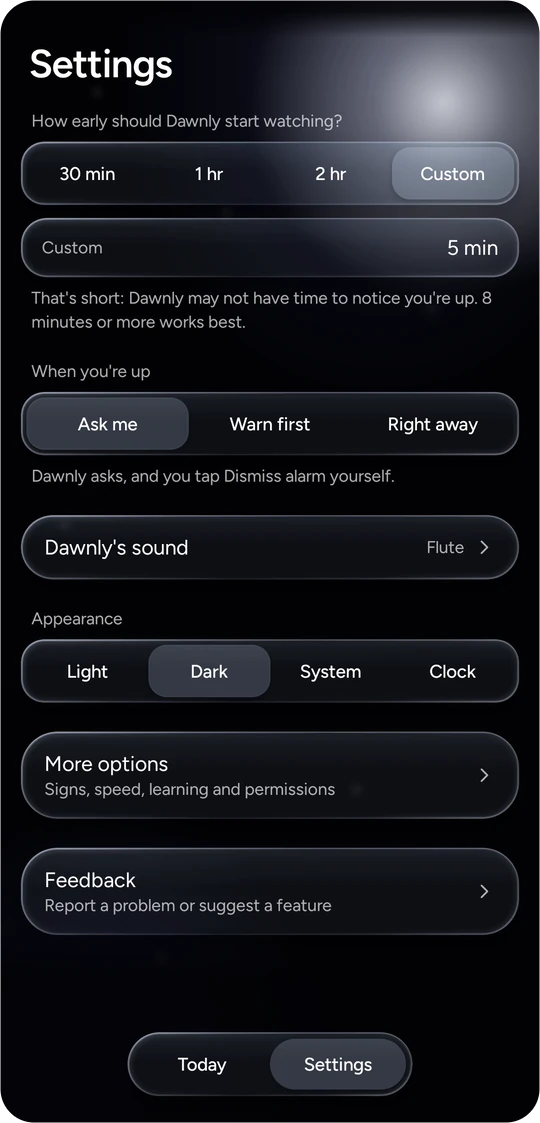
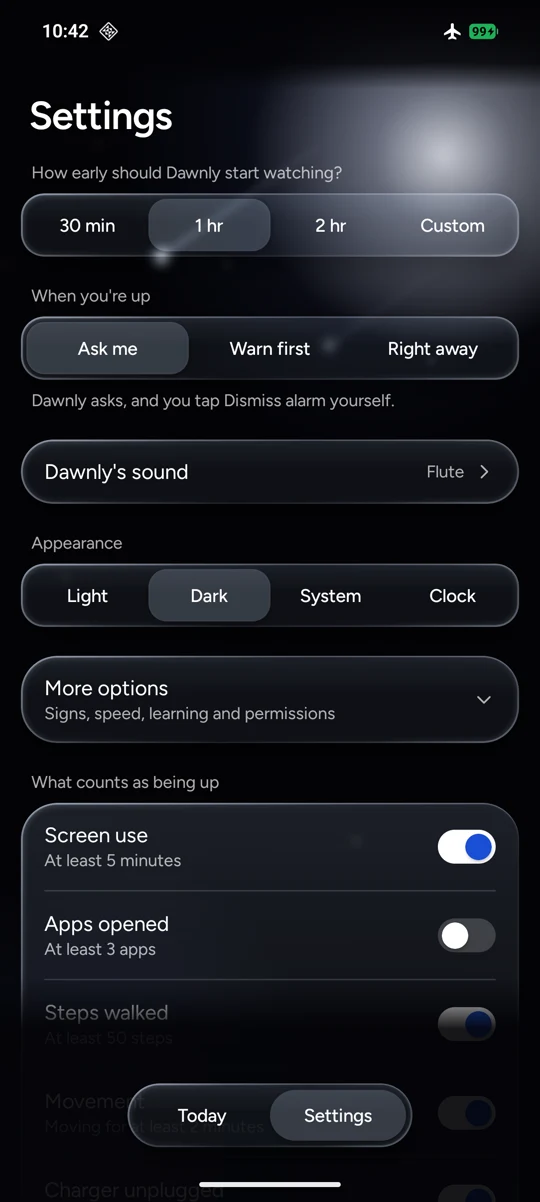
README: light and dark screenshots of 1.7.8, light-to-dark transition
Replaces the older Today, Settings and reminder editor screenshots with
light and dark versions, and adds the mid-sweep frames of the switch
between light and dark. Adds the set-alarm wheels, sound picker and
More options. The prompt and Alarm's off screenshots are unchanged.

diff --git a/README.md b/README.md
@@ -9,24 +9,29 @@ Kotlin · Jetpack Compose · fully offline · no account · watches only in the 
 It also has **Reminders** ("Drink water, every 20 minutes") and **learns from your mornings**, so it asks sooner or later to suit you.
 
 <p align="center">
-  <img src="docs/screenshots/today-1.7.8.webp" width="240" alt="Today: set an alarm or add a reminder">
-  <img src="docs/screenshots/settings-1.7.8.webp" width="240" alt="Settings: how early to watch, when you're up, sound and appearance">
-  <img src="docs/screenshots/reminder-editor-1.7.8.webp" width="240" alt="The reminder editor: name, repeat, times and which days">
+  <img src="docs/screenshots/today-light.webp" width="240" alt="Today in light mode, with the alarm ring and reminders">
+  <img src="docs/screenshots/today-dark.webp" width="240" alt="Today in dark mode">
 </p>
 
 ## Screenshots
 
 | | Light | Dark |
 |---|---|---|
-| **Today**, watching before the alarm | <img src="docs/screenshots/today-watching-light.webp" width="240" alt="Today in light mode while watching"> | <img src="docs/screenshots/today-watching-dark.webp" width="240" alt="Today in dark mode while watching"> |
-| **New reminder**, with Which days | <img src="docs/screenshots/editor-light.webp" width="240" alt="The reminder editor in light mode"> | <img src="docs/screenshots/editor-dark.webp" width="240" alt="The reminder editor in dark mode"> |
+| **Today**, with reminders | <img src="docs/screenshots/today-light.webp" width="240" alt="Today in light mode"> | <img src="docs/screenshots/today-dark.webp" width="240" alt="Today in dark mode"> |
 | **Settings** | <img src="docs/screenshots/settings-light.webp" width="240" alt="Settings in light mode"> | <img src="docs/screenshots/settings-dark.webp" width="240" alt="Settings in dark mode"> |
+| **New reminder** | <img src="docs/screenshots/reminder-editor-light.webp" width="240" alt="The reminder editor in light mode"> | <img src="docs/screenshots/reminder-editor-dark.webp" width="240" alt="The reminder editor in dark mode"> |
 
-| The prompt | After the dismiss | Reminders |
+| Light to dark | Dark to light |
+|---|---|
+| <img src="docs/screenshots/transition-light-to-dark.webp" width="240" alt="Switching from light to dark, mid-sweep"> | <img src="docs/screenshots/transition-dark-to-light.webp" width="240" alt="Switching from dark to light, mid-sweep"> |
+
+| Set an alarm | Choosing the sound | More options |
 |---|---|---|
-| <img src="docs/screenshots/prompt.webp" width="240" alt="The Up already? notification over Today"> | <img src="docs/screenshots/alarm-off.webp" width="240" alt="The Alarm's off notification"> | <img src="docs/screenshots/reminders-light.webp" width="240" alt="Reminders on Today"> |
-| **Date wheel** | **Sound picker** | **More options** |
-| <img src="docs/screenshots/date-wheel-light.webp" width="240" alt="The glass date wheel"> | <img src="docs/screenshots/sound-picker.webp" width="240" alt="Choosing Dawnly's sound"> | <img src="docs/screenshots/more-options.webp" width="240" alt="More options: which signs count"> |
+| <img src="docs/screenshots/set-alarm-light.webp" width="240" alt="Setting an alarm on the time wheels"> | <img src="docs/screenshots/sound-picker-light.webp" width="240" alt="Choosing Dawnly's sound"> | <img src="docs/screenshots/more-options-light.webp" width="240" alt="More options: which signs count"> |
+
+| The prompt | After the dismiss | Reminder options |
+|---|---|---|
+| <img src="docs/screenshots/prompt.webp" width="240" alt="The Up already? notification over Today"> | <img src="docs/screenshots/alarm-off.webp" width="240" alt="The Alarm's off notification"> | <img src="docs/screenshots/reminder-editor-light-options.webp" width="240" alt="The reminder editor: repeat, times, which days and how it comes"> |
 
 ## How it works
 
